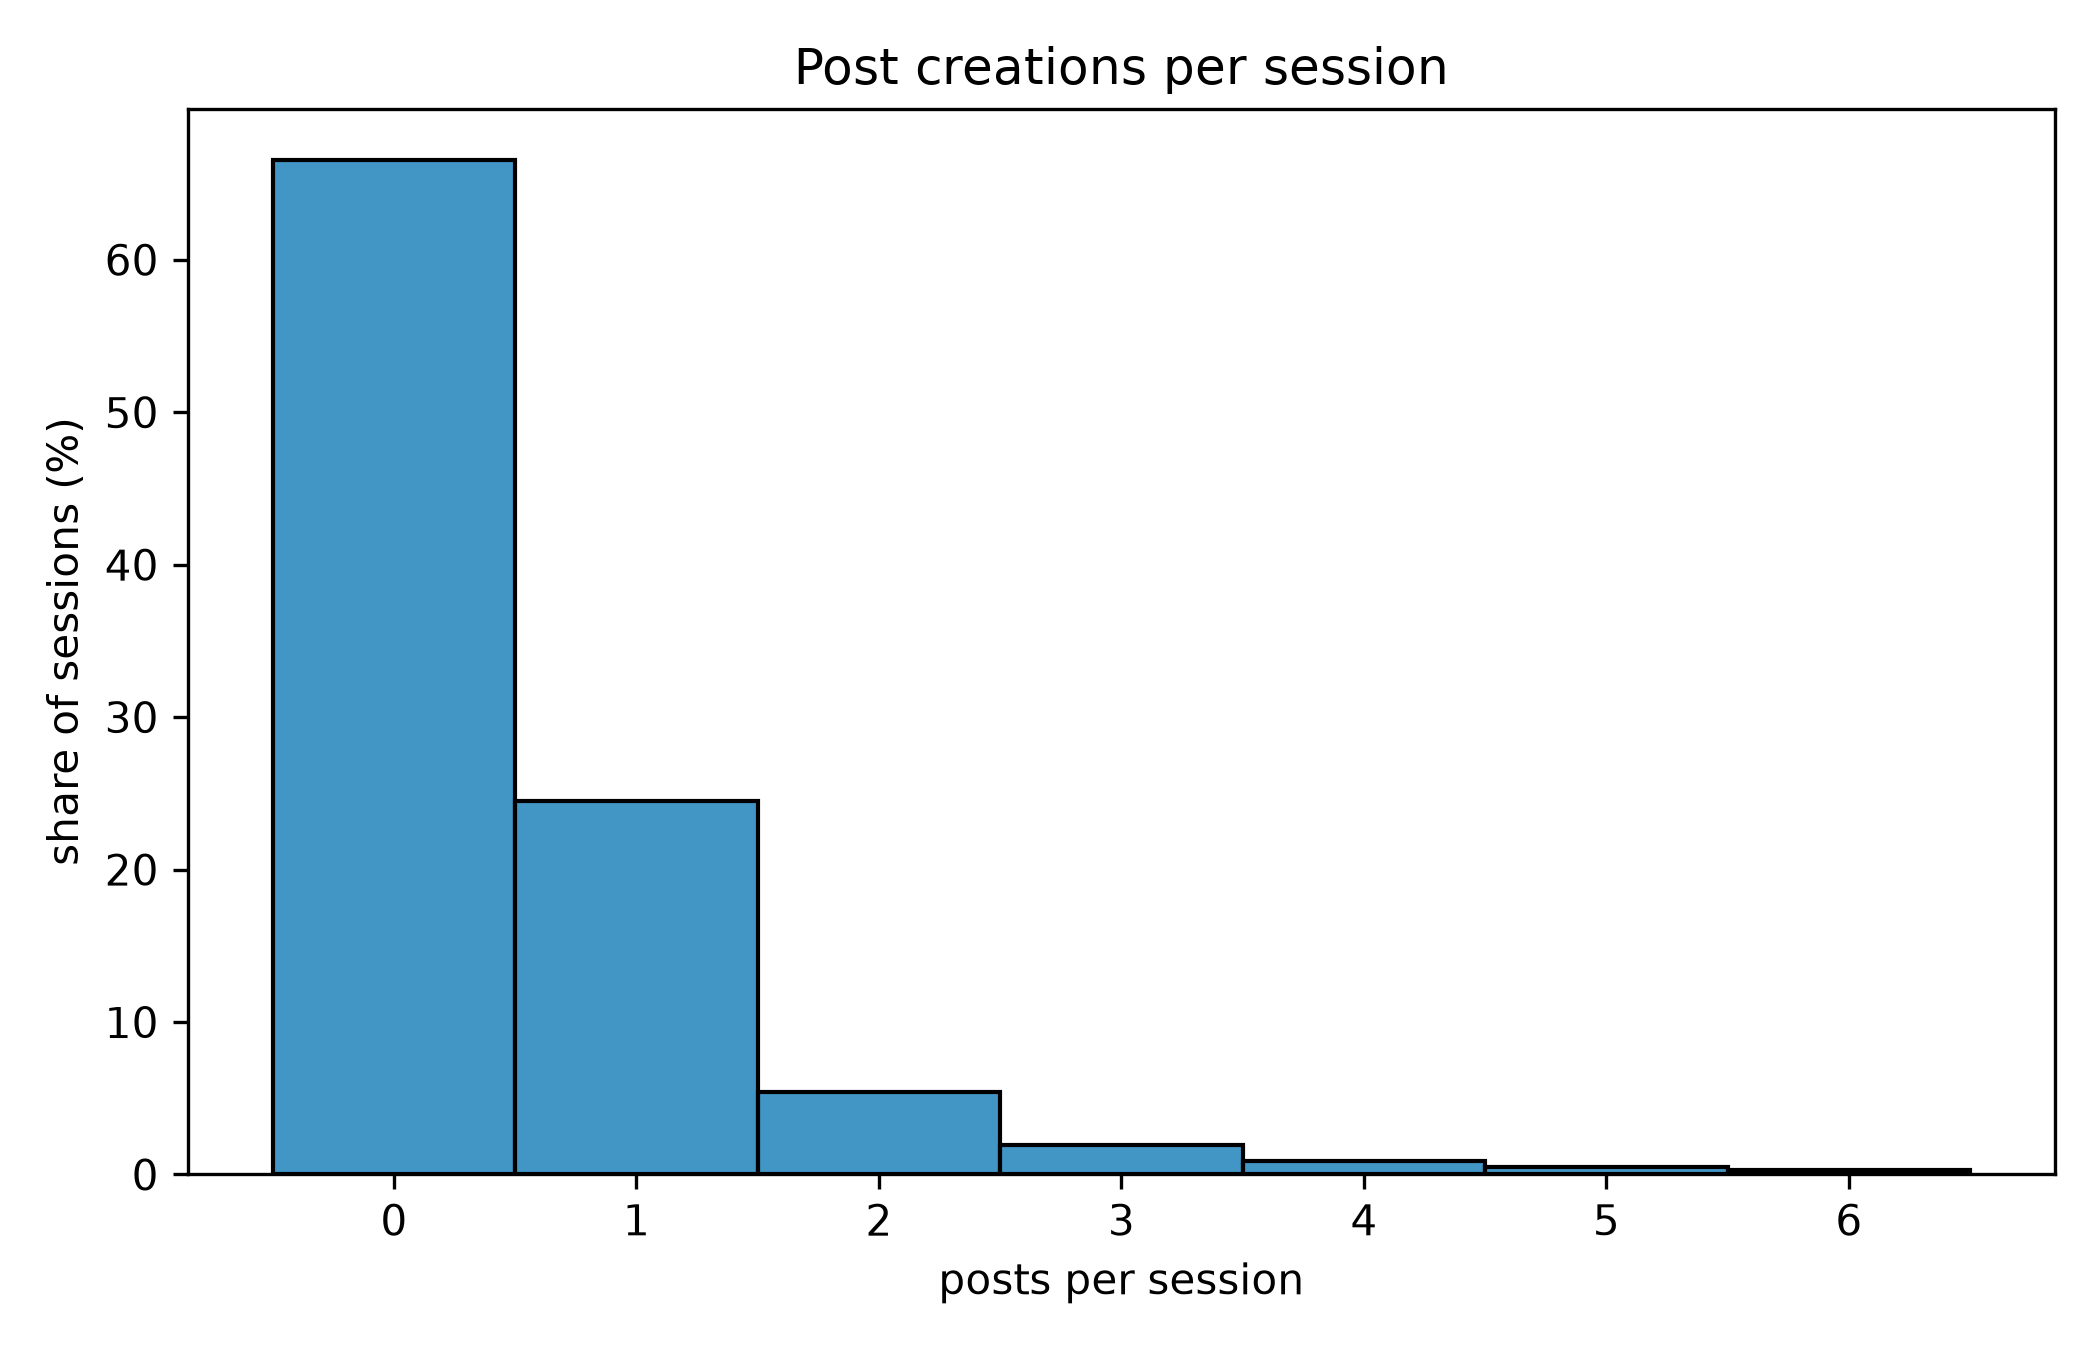
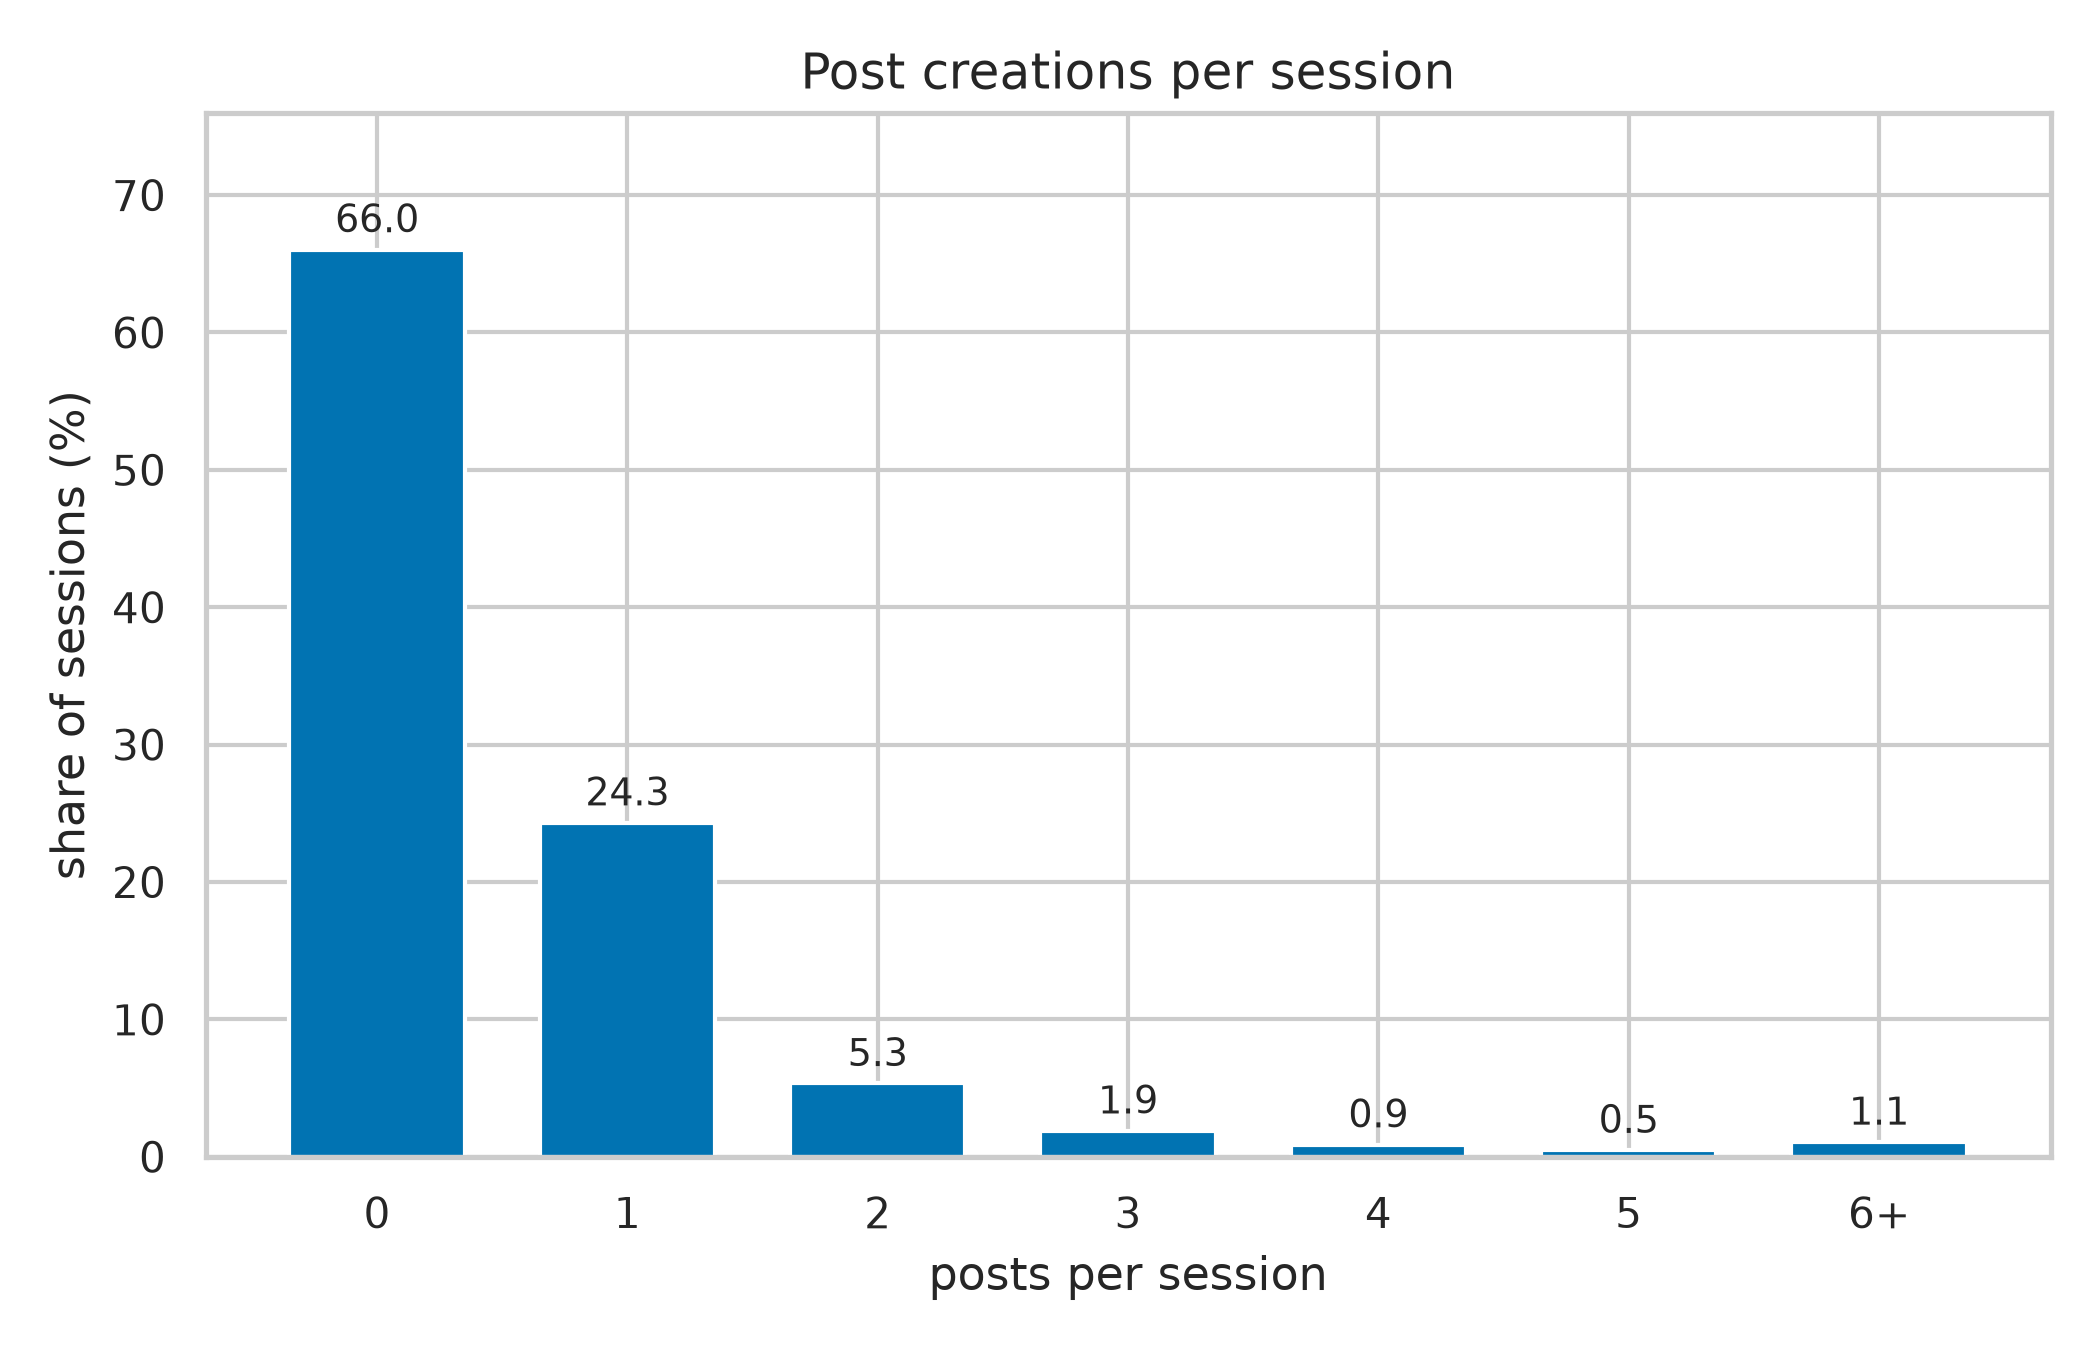
Posts per session: % labels, session-length rate, per-session cache

diff --git a/sessions/inter-post-creation/posts_per_session.py b/sessions/inter-post-creation/posts_per_session.py
@@ -1,15 +1,16 @@
 """Posts per session: the count-side showcase of the within-session fitting problem.
 
-For every session, count how many post creations fall inside it. The point:
-most sessions contain zero or one post --- sessions are short (median 110 s)
-AND users simply do not post much inside them, by definition of a session as
-an activity window dominated by non-post events. The within-session inter-post
-sample is therefore intrinsically tiny; this is the data-side reason the
-per-user within fits are starved, complementary to the AIC-margin and
-truncation-simulation evidence (see the report's Within Creation Distribution
-section).
+For every session, count how many post creations fall inside it. Most sessions
+contain zero or one post (66% / 24%): sessions are short AND users do not post
+much inside them, so the within-session inter-post sample is intrinsically
+tiny. The rate metric — posts per session-hour, among active sessions —
+normalizes for session length.
 
-Output: plots/posts_per_session.png + console summary.
+Per-session (post count, duration) is cached in results/posts_per_session_cache.npz
+after the first DB pass, so reruns only replot. Delete the cache to recompute.
+
+Output: plots/posts_per_session.png (counts, % labels) + plots/posts_per_hour.png
+        (rate among active sessions).
 
 Usage:
     uv run inter-post-creation/posts_per_session.py
@@ -29,14 +30,31 @@ sys.path.insert(0, str(HERE.parent / "table_creation"))
 from _core import get_connection, _execute, TBL_PREFIX
 
 BATCH_DIDS = 2000
+CACHE = HERE / "results" / "posts_per_session_cache.npz"
+
+# ── Thesis styling ───────────────────────────────────────────────────────
+sns.set_theme(style="whitegrid")
+plt.rcParams.update({
+    "text.usetex": False,
+    "axes.labelsize": 11,
+    "font.size": 11,
+    "legend.fontsize": 11,
+    "xtick.labelsize": 10,
+    "ytick.labelsize": 10,
+})
 
 
-def main():
+def fetch():
+    """Per-session (post count, duration s) — cache first, else DB pass."""
+    if CACHE.exists():
+        z = np.load(CACHE)
+        print(f"→ loaded {len(z['count']):,} sessions from {CACHE.name}", file=sys.stderr)
+        return z["count"], z["duration_s"]
     conn = get_connection()
     dids = [r[0] for r in _execute(conn, f"SELECT did FROM {TBL_PREFIX}sessions_users ORDER BY did")]
     print(f"{len(dids):,} users", file=sys.stderr)
 
-    counts = []  # posts per session, over ALL sessions (zeros included)
+    count_batches, dur_batches = [], []
     for i in range(0, len(dids), BATCH_DIDS):
         batch = dids[i:i + BATCH_DIDS]
         ph = ",".join(["%s"] * len(batch))
@@ -52,6 +70,7 @@ def main():
             ORDER BY did, time_us""", batch):
             posts[d].append(int(t))
 
+        cs, ds = [], []
         for did, iv in sessions.items():
             starts = [s for s, _ in iv]
             per_owner = defaultdict(int)
@@ -59,31 +78,69 @@ def main():
                 j = bisect.bisect_right(starts, t) - 1
                 o = j if j >= 0 and t <= iv[j][1] else None
                 per_owner[o] += 1
-            counts.extend(per_owner.get(k, 0) for k in range(len(iv)))
+            cs.extend(per_owner.get(k, 0) for k in range(len(iv)))
+            ds.extend((iv[j][1] - iv[j][0]) // 1_000_000 for j in range(len(iv)))
+        count_batches.append(np.fromiter(cs, np.int32))
+        dur_batches.append(np.fromiter(ds, np.int32))
         if (i // BATCH_DIDS) % 10 == 0:
             print(f"\r  {i + len(batch):,}/{len(dids):,}", end="", file=sys.stderr, flush=True)
     conn.close()
 
-    c = np.array(counts)
-    print(f"\nsessions: {len(c):,}   posts/session: "
-          f"mean {c.mean():.3f}  p50 {np.median(c):.0f}  "
-          f"p90 {np.percentile(c, 90):.0f}  p99 {np.percentile(c, 99):.0f}  "
-          f"max {c.max():.0f}", file=sys.stderr)
-    for k in range(6):
-        print(f"  {k} posts: {100 * np.mean(c == k):.2f}%", file=sys.stderr)
-    print(f"  >=6 posts: {100 * np.mean(c >= 6):.2f}%", file=sys.stderr)
+    counts = np.concatenate(count_batches)
+    durations = np.maximum(np.concatenate(dur_batches), 1)  # zero-length guard
+    np.savez_compressed(CACHE, count=counts, duration_s=durations)
+    print(f"\n→ cached per-session data to {CACHE}", file=sys.stderr)
+    return counts, durations
 
-    cap = float(np.percentile(c, 99))
+
+def main():
+    counts, durations = fetch()
+    n = len(counts)
+    print(f"\nsessions: {n:,}   posts/session: "
+          f"mean {counts.mean():.3f}  p50 {np.median(counts):.0f}  "
+          f"p90 {np.percentile(counts, 90):.0f}  p99 {np.percentile(counts, 99):.0f}  "
+          f"max {counts.max():.0f}", file=sys.stderr)
+
+    # ── Plot 1: posts per session (0..5 exact, 6+ pooled), % labels ──────
+    dist = np.bincount(counts)
+    tail6 = dist[6:].sum()
+    pct = np.concatenate([dist[:6] / n * 100, [tail6 / n * 100]])
+    for k in range(6):
+        print(f"  {k} posts: {100 * dist[k] / n:.2f}%", file=sys.stderr)
+    print(f"  >=6 posts: {100 * tail6 / n:.2f}%", file=sys.stderr)
+
     fig, ax = plt.subplots(figsize=(7, 4.5))
-    sns.histplot(c[c <= cap], bins=np.arange(0, cap + 2) - 0.5, stat="percent",
-                 color=sns.color_palette("colorblind")[0], ax=ax)
+    ax.bar(np.arange(7), pct, color=sns.color_palette("colorblind")[0], width=0.7)
+    ax.bar_label(ax.containers[0], fmt="%.1f", padding=2, fontsize=9)
+    ax.set_xticks(np.arange(7))
+    ax.set_xticklabels(["0", "1", "2", "3", "4", "5", "6+"])
     ax.set_xlabel("posts per session")
     ax.set_ylabel("share of sessions (%)")
     ax.set_title("Post creations per session")
+    ax.set_ylim(0, pct.max() * 1.15)
     fig.tight_layout()
-    out = HERE / "plots" / "posts_per_session.png"
-    fig.savefig(out, dpi=300)
-    print(f"→ {out}", file=sys.stderr)
+    p1 = HERE / "plots" / "posts_per_session.png"
+    fig.savefig(p1, dpi=300)
+
+    # ── Plot 2: posts per session-hour among active sessions ─────────────
+    active = counts > 0
+    rate = counts[active] * 3600.0 / durations[active]
+    print(f"\nactive sessions (≥1 post): {active.sum():,} ({100 * active.mean():.1f}%)  "
+          f"posts/session-hour: median {np.median(rate):.1f}  mean {rate.mean():.1f}  "
+          f"p90 {np.percentile(rate, 90):.1f}  p99 {np.percentile(rate, 99):.1f}",
+          file=sys.stderr)
+    cap = float(np.percentile(rate, 99))
+    fig, ax = plt.subplots(figsize=(7, 4.5))
+    sns.histplot(rate[rate <= cap], bins=60, stat="percent",
+                 color=sns.color_palette("colorblind")[1], ax=ax)
+    ax.set_xlim(0, cap)
+    ax.set_xlabel("posts per session-hour (sessions with ≥ 1 post)")
+    ax.set_ylabel("share of active sessions (%)")
+    ax.set_title("Post intensity among active sessions")
+    fig.tight_layout()
+    p2 = HERE / "plots" / "posts_per_hour.png"
+    fig.savefig(p2, dpi=300)
+    print(f"→ {p1}\n→ {p2}", file=sys.stderr)
 
 
 if __name__ == "__main__":
